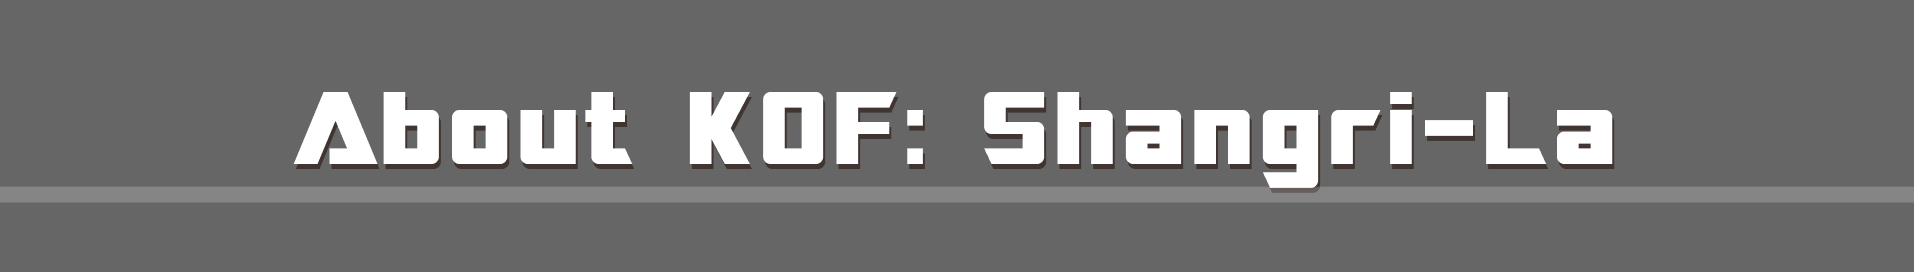
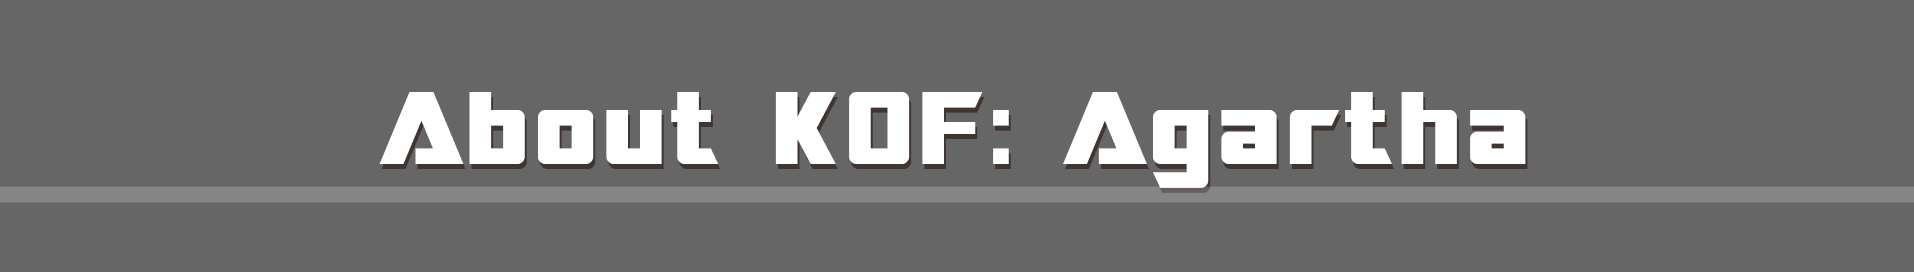
12-9

Changed region(s): [[0.1541, 0.3235, 0.8631, 0.7059]]

diff --git a/frontend/index.html b/frontend/index.html
@@ -34,9 +34,9 @@
     <div class="shade1">
       <!-- <div class="shadow2"></div> -->
       <!-- <div class="icon"></div> -->
-      <div class="KofTitle">KOF：Shangri-La NFT</div>
+      <div class="KofTitle">KOF：Agartha NFT</div>
       <div class="Textcontent">
-        <p class="text">Key to enter Shangri-la, the first web 3 anime Isekai</p>
+        <p class="text">Key to enter Agartha, the first web 3 anime Isekai</p>
          <ul class="tooltip" >
           <li>
             <p class="title">Land Disturbution</p>
@@ -91,7 +91,7 @@
 
     
     <div class="jadeContainer">
-      <div class="jadeTitle">What is Shangri-La</div>
+      <div class="jadeTitle">What is Agartha</div>
       <div class="mirrorTitle">Meet Some of the Heros</div>
       <!-- <div class="text"></div> -->
       <!-- <div class="line" style="top: 0;">

diff --git a/frontend/css/index.css b/frontend/css/index.css
@@ -794,7 +794,7 @@ z-index: 1;
 .mirrorContainer .footer .kof{
   position: absolute;
   top: 0;
-  right: 2.1rem;
+  right: 2.2rem;
   width: 2.2rem;
   height: 0.38rem;
   background: url(../images/box1/logo.png) no-repeat center;
